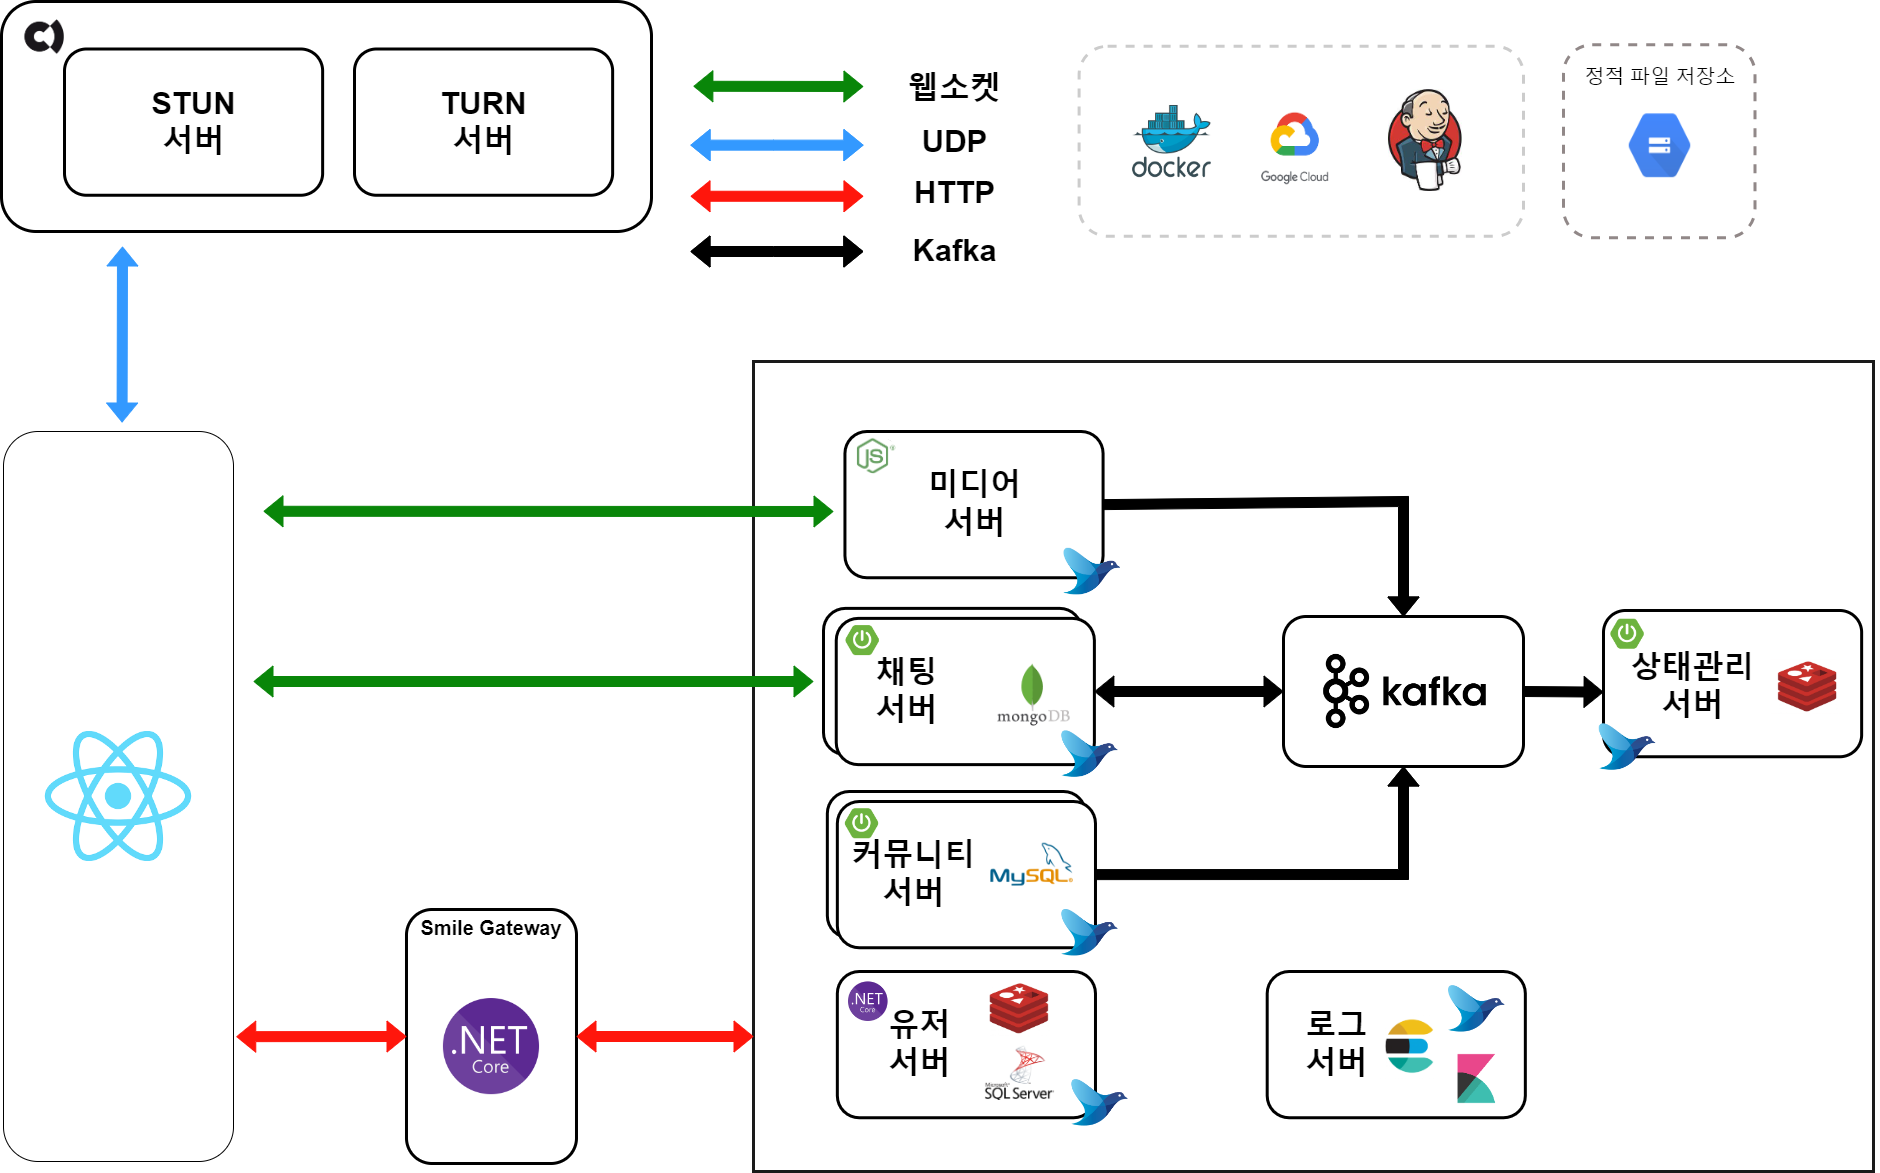
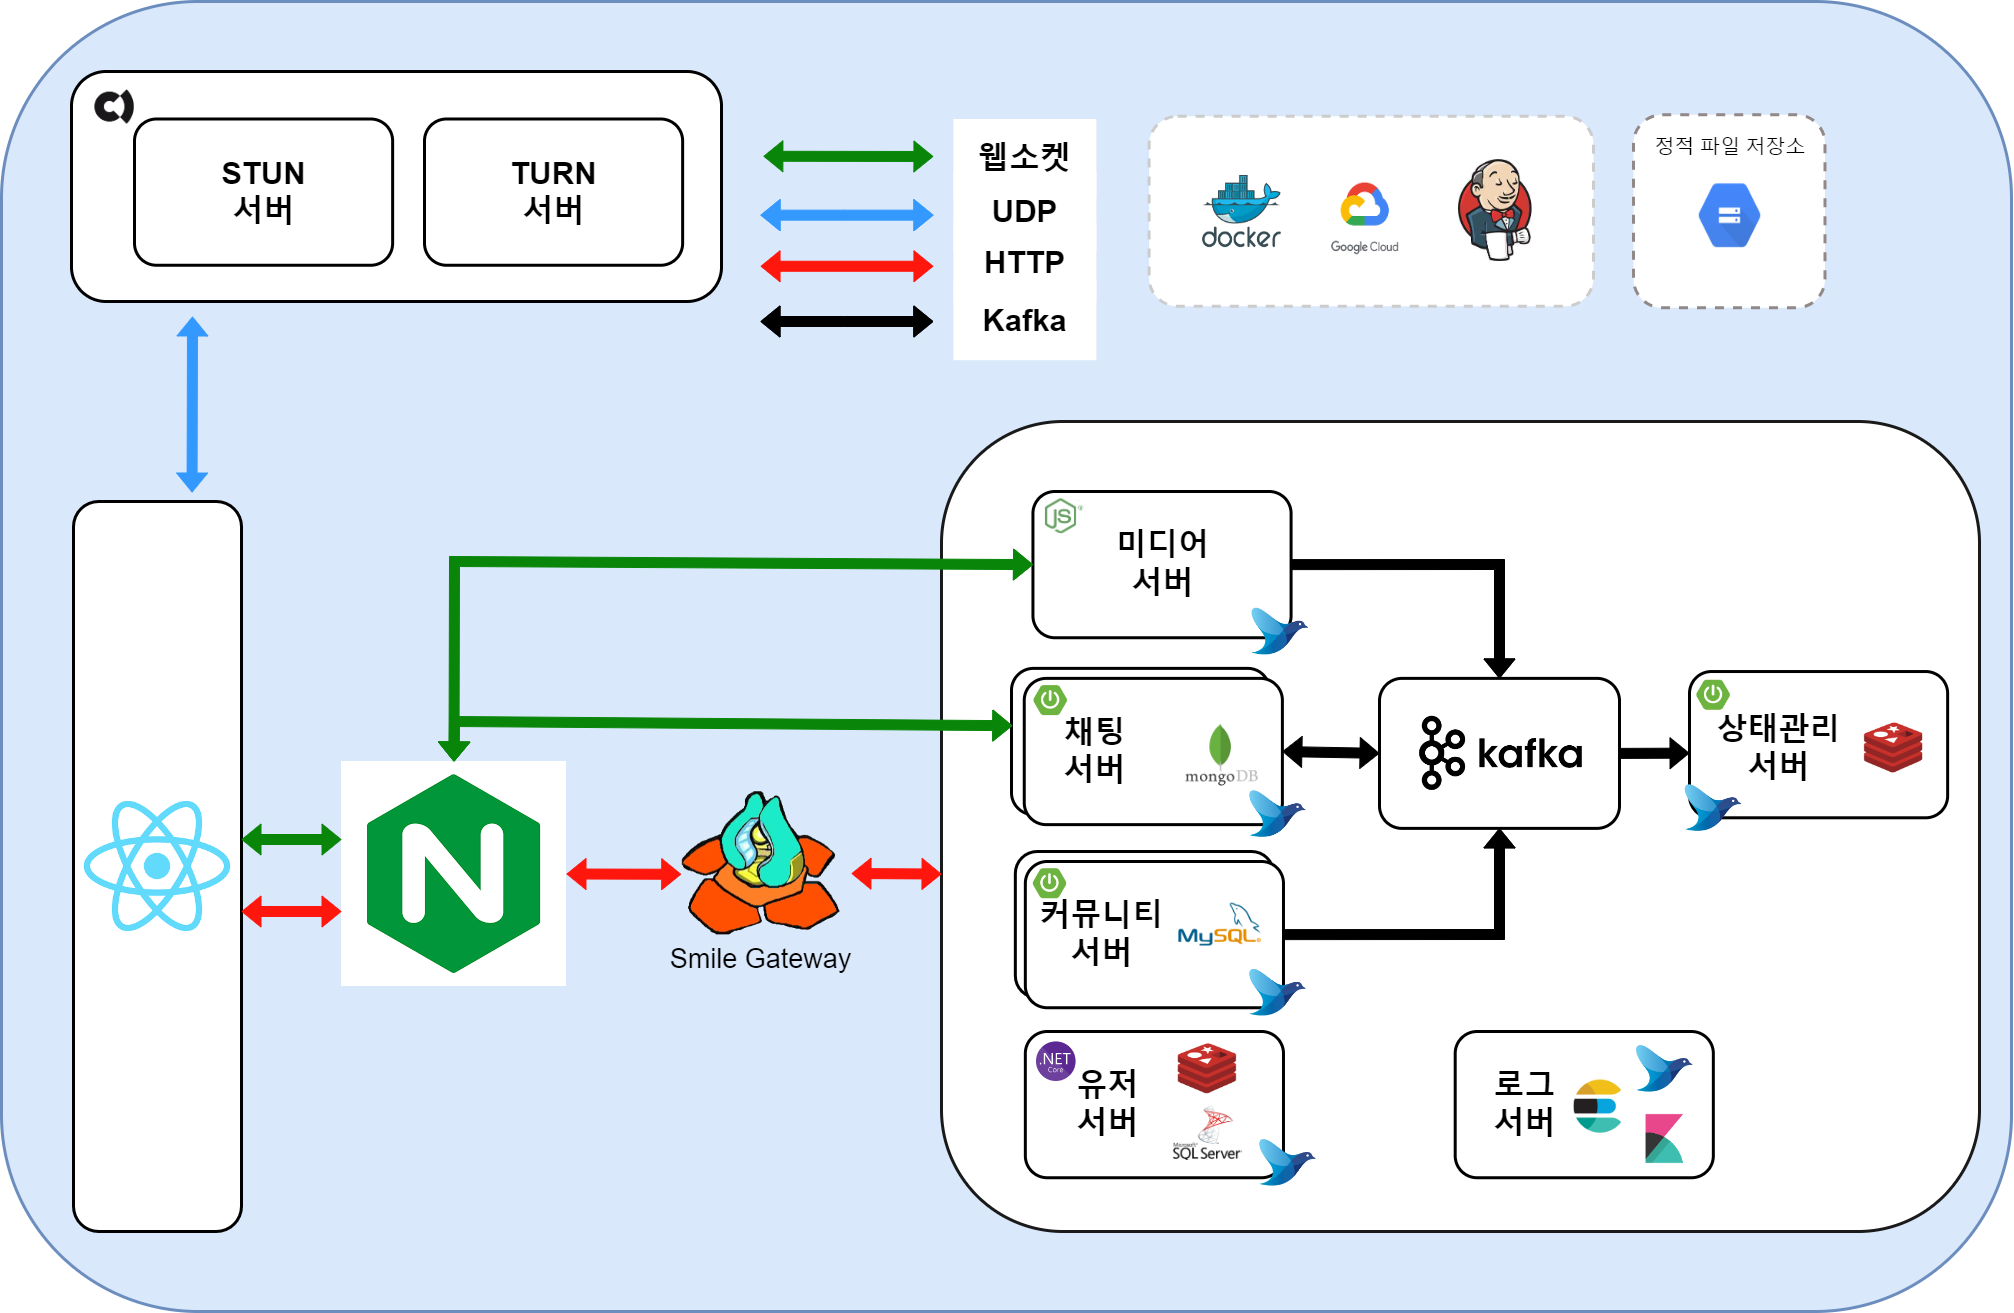
feat: 유저-서버 리드미 작성

diff --git a/docs/서버-소개/유저-서버/README.md b/docs/서버-소개/유저-서버/README.md
@@ -1,0 +1,320 @@
+# 유저 서버
+1. [서버 아키텍처](#서버-아키텍처)
+2. [동작 방식](#동작-방식)
+3. [구현 기능 목록](#구현-기능-목록)
+4. [트러블 슈팅](#트러블-슈팅)
+
+## 서버 아키텍처
+| 종류     | 기술                                                              |
+| -------- | ----------------------------------------------------------------- |
+| Language | `ASP.NET Core 6`                                                  |
+| Database | `MSSQL`, `Redis`                                                  |
+| Token    | `JWT`                                                             |
+| Database | `Castle.Core`, `MailKit`, `SmtpServer`, `Google.Cloud.Storage.V1` |
+
+## 동작 방식
+### Auth
+- 로그인 및 로그 아웃의 경우, Smile Gateway와의 Config 설정을 통해 JWT 토큰 발급 및 삭제를 진행합니다.
+- 현재는 `/api/auth/login`, `/api/user/logout`이 `PATH`로 설정되어 있습니다.
+
+### User
+- 유저의 경우 Community 서버와의 통신을 통해 이름, 프로필 변경 등의 동기화를 진행합니다.
+- 이름의 경우, 한글 영어 이름 모두 가능합니다.
+
+### Friend
+- 친구 추가 삭제 등과 같은 경우, Community와의 통신을 통해 친구 목록을 동기화를 진행합니다.
+- 친구 목록의 경우 State 서버와의 통신을 통해 해당 유저의 접속 여부를 파악할 수 있습니다.
+
+### 로깅
+- [FileLogger]()를 통해 파일에 로그를 저장합니다.
+- 로그는 AOP를 위해 Castle 라이브러리를 사용하였으며 기본적인 로그는 [LogMiddleware]()에서 저장됩니다.
+- AOP 패턴의 경우 [LogIntercepter]()를 통해 로깅이 진행됩니다.
+- 로그 형태는 다음과 같습니다.
+``` 
+{"@timestamp":"2024-02-20 17:09:03.608 ","level":"INFO","service":"user-service","trace":"","apiAddr":"","httpMethod":"PATCH","userId":"","message":"message"}
+```
+- `Queue`를 통해 로그가 저장되고, `Timer`를 통해 로그가 파일에 저장됩니다. 멀티 스레드의 동시 접근을 방지가 위해 `Queue`는 `ConCurrentQueue`로 선언되어 있습니다.
+``` C#
+public class FileLogger: IBaseLogger
+{
+    public ConcurrentQueue<LogModel> _queue = new ConcurrentQueue<LogModel>();
+
+    public FileLogger(IConfiguration config)
+    {
+        _config = config;
+        _path = _config["Logger:LogPath"];
+        Timer timer = new Timer();
+        timer.Interval = 1000;
+        timer.Elapsed += (sender, args) =>
+        {
+            List<LogModel> logs;
+            PopAll(out logs);
+            if (logs.Count > 0)
+            {
+                try
+                {
+                    using (StreamWriter sw = File.AppendText(_path))
+                    {
+                        foreach (var log in logs)
+                        {
+                            sw.WriteLine(log.ToString());
+                        }
+                    }
+
+                }
+                catch
+                {
+                    // 로그 파일이 없을 경우 생성
+                    using (StreamWriter sw = File.CreateText(_path))
+                    {
+                        foreach (var log in logs)
+                        {
+                            string json = JsonSerializer.Serialize(log);
+                            sw.WriteLine(json);
+                        }
+                    }
+                }
+            }
+        };
+        timer.Start();
+    }
+}
+```
+
+### 에러 처리
+- 에러 처리는 두 곳에서 일어나게 됩니다.
+- **InvalidModel**
+```
+builder.Services.AddControllers().ConfigureApiBehaviorOptions(options =>
+{
+    options.InvalidModelStateResponseFactory = CustomErrorHandler.ModelStateErrorHandler;
+});
+```
+- **ExceptionMiddleware**
+```
+app.UseExceptionHandler(exceptionHandlerApp =>
+{
+    exceptionHandlerApp.Run(CustomErrorHandler.MyRequestDelegate);
+});
+```
+- 에러 코드는 [ErrorCode.json]() 형태로 리턴하게 됩니다.
+- 또한, 모든 Exception은 Custom으로 만들어진 Exception을 호출하게 됩니다.
+
+### 다른 서버와의 통신
+- 서버와의 통신을 구현하여 이를 의존성 주입으로 넣어둠.
+- `HttpClient`를 사용하여 통신을 진행함.
+- 다음은 예시이며, 다음과 같은 코드 형태로 작성되어 있음.
+```C#
+public async Task<bool> RegisterUserAsync(CommunityUserDTO communityDTO, string traceId)
+{
+    SetDefaultHeader(traceId.ToString(), "");
+
+    try
+    {
+        HttpResponseMessage response = await _client.PostAsync("registration/user", CreateJsonContent(communityDTO), _cancellationToken);
+        string str = await response.Content.ReadAsStringAsync();
+        var dto = JsonConvert.DeserializeObject<CommunityResponseDTO>(str);
+        if (dto == null)
+            System.Console.WriteLine("Response is null");
+        if (dto!.ResultCode != 200)
+        {
+            var exception = JsonConvert.DeserializeObject<CommunityBaseException>(dto.ResultData);
+            System.Console.WriteLine(exception!.Message);
+            throw new ServiceException(4010);
+        }
+    }
+    catch (Exception e)
+    {
+        System.Console.WriteLine(e.Message);
+
+        return false;
+    }
+
+    return true;
+}
+
+```
+### Dababase
+- `EntityFrameWork`를 사용하지 않고, SQL 구문으로 Database에 접근함.
+- Redis 또한 로우하게 접근함.
+
+## 구현 기능 목록
+### Auth
+- 로그인
+- 회원가입
+    - 이메일 체크섬 요청
+- 비밀번호 리셋
+- JWT 토큰의 경우, Smile Gateway에서 발급함.
+- [POSTMAN API](https://documenter.getpostman.com/view/23764817/2s9YsNeAXH)
+
+### User
+- 사용자 프로필 변경
+- 사용자 이름 변경
+- 비밀번호 변경
+- [POSTMAN API](https://documenter.getpostman.com/view/23764817/2sA2rAy2iL)
+
+### Friend
+- 친구 추가
+- 친구 추가 거절
+- 친구 추가 취소
+- 친구 추가 허락
+- 친구 리스트
+- 친구 삭제
+- [POSTMAN API](https://documenter.getpostman.com/view/23764817/2sA2rAyMay)
+
+## 트러블 슈팅
+### 한글 이름 이슈
+- 초기 테이블의 경우 이름의 경우 한글을 고려하지 않아 COLUMN 타입을 `VARCHAR`로 선언함.
+- 이와 같은 경우, 한글을 넣게 되면 `???`로 출력되는 문제가 발생함.
+
+- 따라서 `NVARCHAR`로 타입을 지정해야 하며, `INSERT` 문을 진행할 떄, `NVARCHAR`로 선언된 컬럼의 경우
+`N'~~'`와 같이 `N`을 붙여야 함.
+
+``` SQL
+INSERT INTO users (name, profile) VALUES (N'name', 'sql')";
+```
+
+### JWT Token
+- JWT 토큰 발급 및 삭제의 경우 초반에는 유저 서버에서 진행함.
+- 그러나 Smile Gateway를 제작하는 과정에서 인증 관련 기능을 게이트웨이로 이전
+- Auth Controller 관련된 코드가 많이 수정됨
+
+- 설계의 미스
+
+### 커뮤니티, 상태 관리 서버와의 통신
+- 진행 방식의 변경이 있었음.
+  1. 해당 서버의 URL을 손수 넣어서 `Post`, `Get`, `Patch` 등을 실행함.
+  2. API Gateway의 `4040`포트를 내부 포트로 설정하여 API Gateway를 통해 서버 간의 통신을 진행함.
+- API Gateway의 오류로 인해 String의 마지막 문자가 읽히지 않는 문제가 발생.
+
+- Logging과 디버깅으로 해당 문제를 찾았고, 근본적인 문제를 해결함. 이후에는 잘 작동
+
+### 로깅
+- 로깅의 경우 `Controller`, `Service`, `repository` 등을 거치면서 모두 로그가 남아야되는 상황에서
+그냥 로그를 기록할 경우 모든 코드에 로그가 기록되야 하는 상황 발생
+- 또한, 그렇게 구현할 경우 하나를 수정하려면 모든 코드를 수정해야 하는 상황이 발생함.
+- 따라서 AOP 패턴을 구현할 수 있게 해주는 `Castle` 패턴을 사용함.
+  
+- `Castle`을 사용하기 위해 LogIntercepter를 구현하여, 의존성 주입을 함.
+``` CSharp
+builder.Services.AddSingleton<IBaseLogger, FileLogger>();
+
+builder.Services.AddHttpContextAccessor();
+builder.Services.AddScoped<LogInterceptor>();
+```
+- 사용 방식
+```CSharp
+ _userService = generator.CreateInterfaceProxyWithTarget<IUserService>(userService, new LogInterceptor(logger, accessor));
+```
+- 다음과 같이 사용하는 경우, 필수적으로 `서비스`, `레포지토리`가 무조건 Interface를 상속받고 있어야 합니다.
+
+``` C#
+public class LogInterceptor : IInterceptor
+{
+    private IBaseLogger _logger;
+    private IHttpContextAccessor _contextAccessor;
+    public LogInterceptor(IBaseLogger logger, IHttpContextAccessor contextAccessor)
+    {
+        _logger = logger;
+        _contextAccessor = contextAccessor;
+    }
+
+    public void Intercept(IInvocation invocation)
+    {
+        HttpContext context = _contextAccessor.HttpContext!;
+        string traceId = context.Request.Headers["trace-id"];
+        string userId = context.Request.Headers["user-id"];
+
+        // 전
+        _logger.LogInformation(
+            traceId: traceId,
+            method: context.Request.Method,
+            userId: userId,
+            message: invocation.Method.Name + " start",
+            apiAddr: context.Connection.RemoteIpAddress!.ToString());
+
+        invocation.Proceed();
+
+        // 후
+        _logger.LogInformation(
+            traceId: traceId,
+            method: context.Request.Method,
+            userId: userId,
+            message: invocation.Method.Name + " end",
+            apiAddr: context.Connection.RemoteIpAddress!.ToString());
+    }
+}
+```
+
+### CORS 설정 오류
+- 배포 상황이 여러번 바뀌다보니 CORS 설정의 오류가 여러번 발생함.
+  
+- `http://localhost:3000`, `http://24.220.109.45:3000`, `https://localhost:3000` 등 여러번의 CORS 설정이 바뀌었음.
+  
+- CORS 설정은 프론트 서버의 설정에 따라 바뀌어야 하며, 이를 따라가야 함.
+
+```
+// CORS 설정
+builder.Services.AddCors(options =>
+{
+    options.AddPolicy("AllowReact", builder =>
+    {
+        builder.WithOrigins("http://localhost:3000")    // 리액트 앱의 주소
+                .WithOrigins("http://10.99.29.133:3000") // 리액트 앱의 주소
+                .WithOrigins("http://127.0.0.1:3000") // 리액트 앱의 주소
+                .WithOrigins("https://127.0.0.1:3000") // 리액트 앱의 주소
+                .WithOrigins("https://localhost:3000")
+                .AllowAnyHeader()
+                .AllowAnyMethod();
+    });
+
+    options.AddDefaultPolicy(builder =>
+    {
+        builder.AllowAnyOrigin()
+                .AllowAnyHeader()
+                .AllowAnyMethod();
+    });
+});
+
+app.UseCors("AllowReact");
+```
+
+### Database
+- `Microsoft.Data.SqlClient`를 사용할 경우 다음과 같은 에러가 발생할 수 있음
+- `SqlConnection`, `SqlCommand`, `SqlDataReader`를 `using`을 사용하지 않고 그냥 사용할 경우
+동시 접근하게 되면 에러가 발생함, (연결이 끊기지 않았는데 동시 접근하기 때문에)
+  
+- 이를 해결하기 위해서는 무조건 `using`을 사용해서 데이터를 쓰거나 읽어야 함.
+  
+- 특히 `ExecubeReader` 함수를 사용하게 되면 `using`을 필수로 써야함.
+  
+- 또한 DB의 경우 자동으로 DB 풀에서 연결을 가져와서 사용하는 것이기 때문에 새로 생성 X
+``` C#
+public List<T> ExecuteReader<T>(string query, Func<IDataReader, T> createInstance)
+{
+    try
+    {
+        using (SqlConnection connection = new SqlConnection(_connectionString))
+        {
+            connection.Open();
+
+            List<T> datas = new List<T>();
+
+            using (SqlCommand command = new SqlCommand(query, connection))
+            using (var reader = command.ExecuteReader())
+            {
+                while (reader.Read())
+                {
+                    datas.Add(createInstance(reader));
+                }
+            }
+
+            return datas;
+        }
+    }
+    catch (Exception e)
+    {
+        throw new user_service.common.exception.SqlException(e.Message);
+    }
+}
+```

diff --git a/README.md b/README.md
@@ -71,7 +71,7 @@
     - kafka
 
 ## 전체 아키텍처
-![image](./resources/전체%20아키텍처-back.drawio.png)
+![image](./resources/전체%20아키텍처.png)
 
 ## 역활 분담
 
